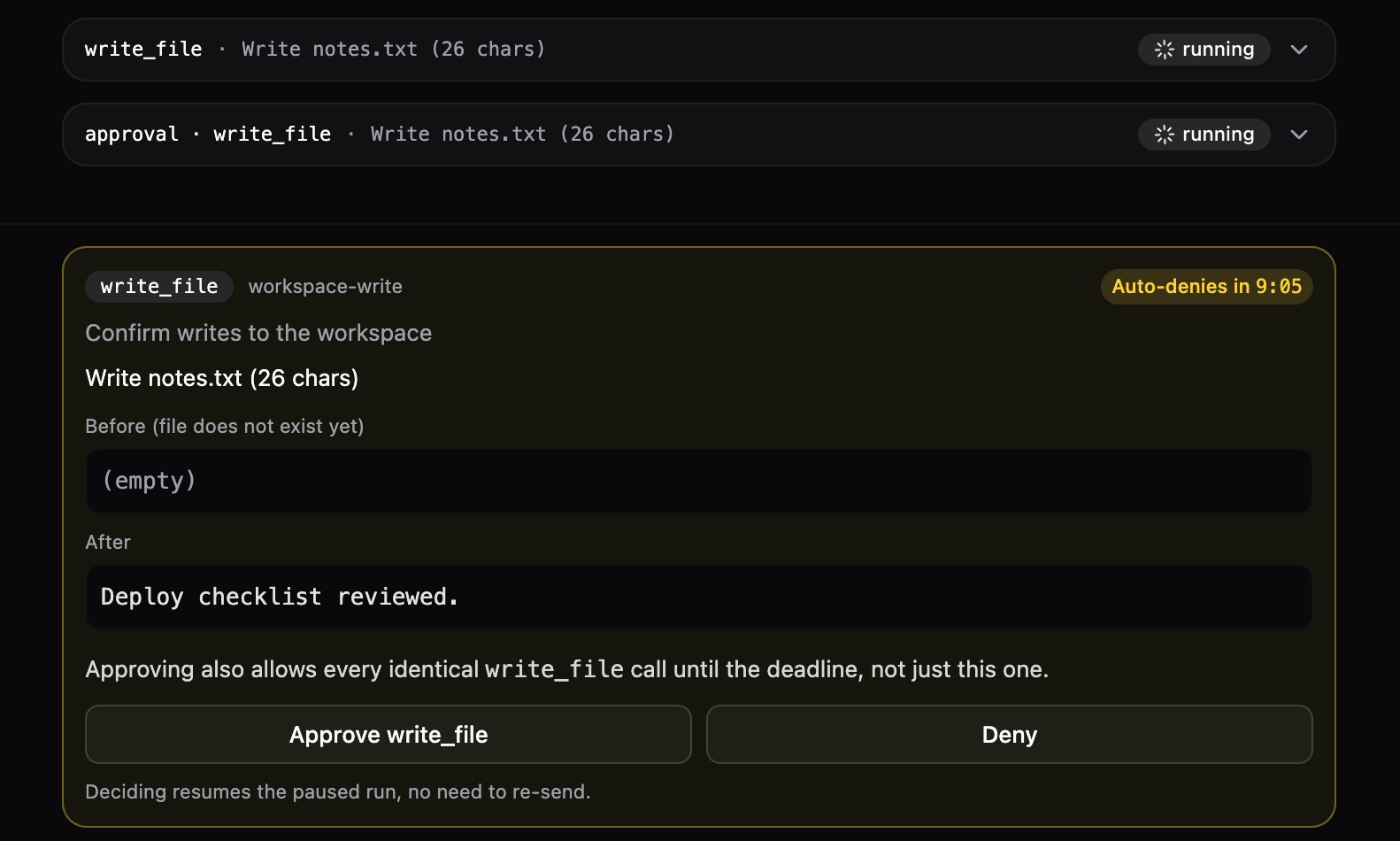
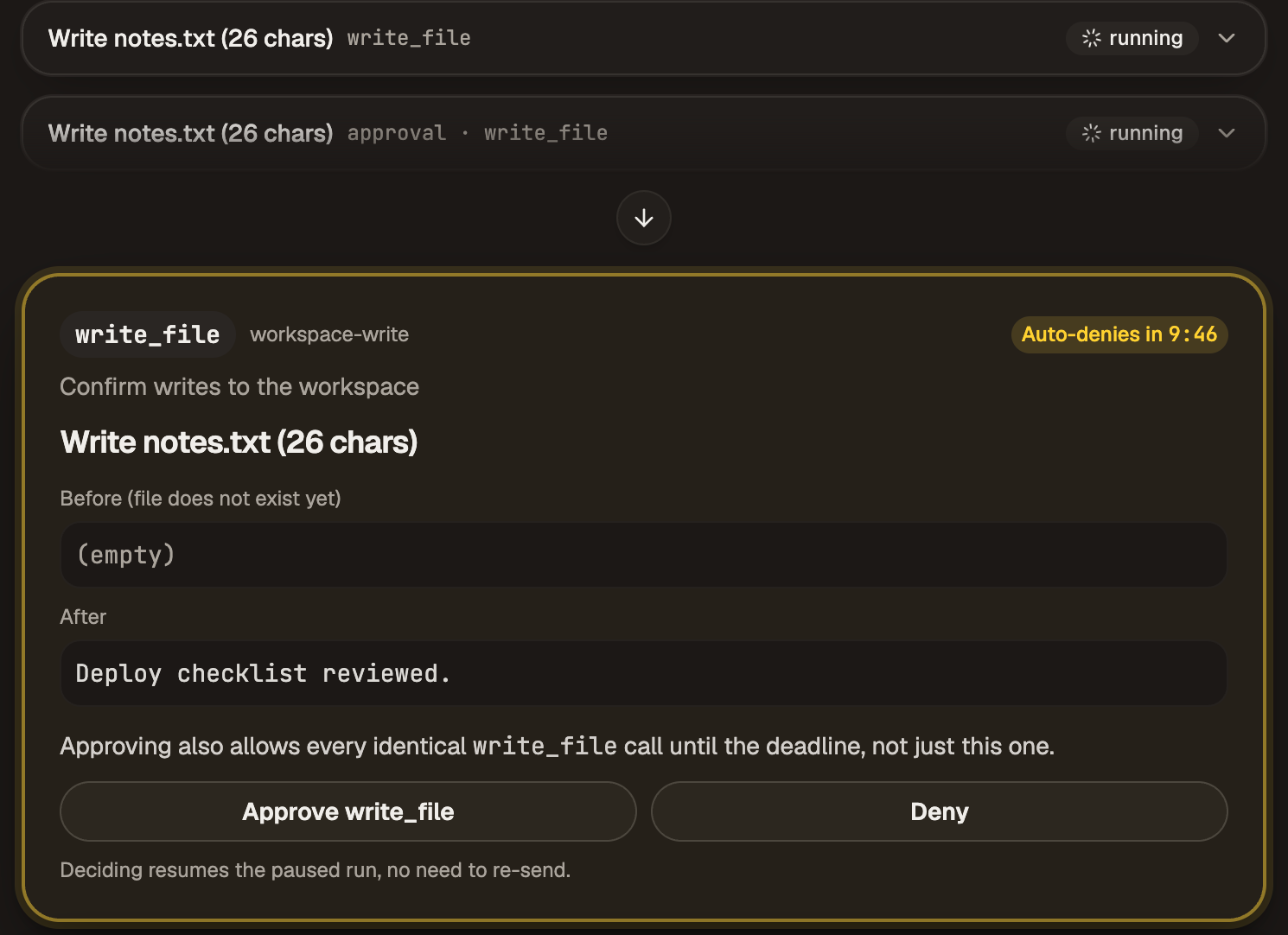
Recapture the Concepts approval screenshots on the current UI
Both shots are retaken against harness v0.15.0, in everyday view. They now show
the full-height sidebar, the thread title in the header and the attention pill.
The caption names the new harness version, and the alt text matches the new
tool-row titles and deadline. The call in the shot was denied.

Changed region(s): [[0.0, 0.1855, 0.9938, 1.0], [0.0, 0.0, 0.9938, 0.1855]]

diff --git a/apps/docs/.impeccable/surfaces/src.md b/apps/docs/.impeccable/surfaces/src.md
@@ -49,7 +49,7 @@ home page is a front door, not a landing page.
 
 - **Code highlighting.** Night Owl's cyans and violets are the only saturated colour outside the
   state ramp (see DESIGN.md → Colors). Replacing the code theme is a decision, not yet made.
-- **The screenshot is under 2x.** Recaptured 2026-10-08 against harness v0.11.2 after chat-ui
-  dropped its dotted transcript texture: the card crop is ~1.8x (1400px for ~790 CSS px) and the
-  full window is 1456px for a 1728px viewport. The browser tool caps its resolution, and macOS
-  `screencapture` could not reach the automation window, so a true 2x capture is still open.
+- **The screenshot is under 2x.** Recaptured 2026-10-20 against harness v0.15.0, in everyday
+  view: the card crop is ~1.7x (1288px for ~745 CSS px) and the full window is 1405px for a
+  1667px viewport. The browser tool caps its resolution, and macOS `screencapture` could not
+  reach the automation window, so a true 2x capture is still open.
